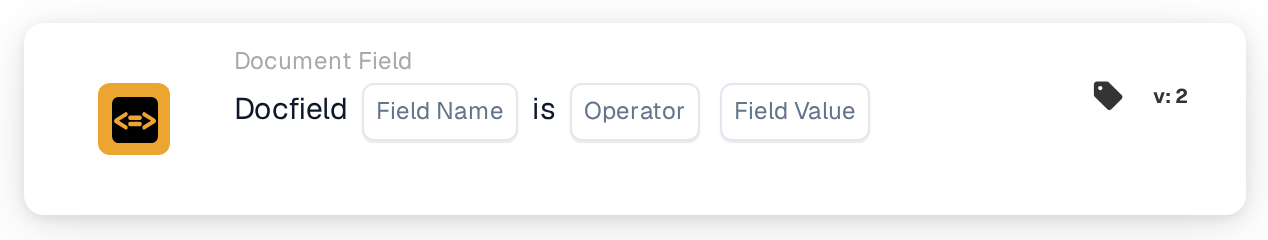
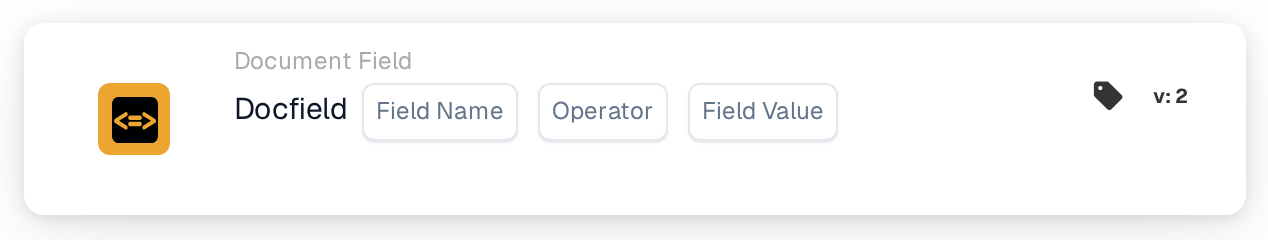
[Documentation_Workflow_Cards] [DRFS-881] document new docfield operators is one of and regex

diff --git a/public_docs/administration-and-setup/workflow/cards-overview/and/document-field/docfield-is.md b/public_docs/administration-and-setup/workflow/cards-overview/and/document-field/docfield-is.md
@@ -2,7 +2,7 @@
 
 <figure><img src="../../../../../.gitbook/assets/workflow_card_condition_docfield_operator_value_v1.png" alt="Workflow card Document Field: Docfield Field Name is Operator Field Value, version 1" width="634"><figcaption><p>Version 1</p></figcaption></figure>
 
-<figure><img src="../../../../../.gitbook/assets/workflow_card_condition_docfield_operator_value_v2.png" alt="Workflow card Document Field: Docfield Field Name is Operator Field Value, version 2" width="634"><figcaption><p>Version 2</p></figcaption></figure>
+<figure><img src="../../../../../.gitbook/assets/workflow_card_condition_docfield_operator_value_v2.png" alt="Workflow card Document Field: Docfield Field Name Operator Field Value, version 2" width="634"><figcaption><p>Version 2</p></figcaption></figure>
 
 {% embed url="https://docbits-videos.fra1.cdn.digitaloceanspaces.com/settings-assistant/card-doc-field-value/v1/en.mp4" %}
 
@@ -28,39 +28,94 @@ For example, a second approval for large invoices: Total amount greater than ten
 
 ## **Purpose:**
 
-This workflow card is designed to automate actions by comparing a specified document field's value with a reference value or condition. It ensures dynamic and accurate decision-making in workflows based on document data validation.
+This card compares one field of the document with a value you enter on the card. Use it to send documents down different paths depending on a field value, for example a second approval for large invoices, or a special route for a few suppliers.
+
+The card reads: **Docfield** [Field Name] [Operator] [Field Value].
 
 ## **Components of the Card:**
 
 1. **Field Name**
-   * **Description:** Specifies the name of the document field to be evaluated.
-   * **Detail:** This must match the exact identifier of the field within the document.
-2. **Operators**
-   * **Description:** Defines the type of comparison to be performed between the field value and the reference value.
-   * **Options:**
-     * **Equals (=):** Checks if the field value matches the reference value.
-     * **Not Equals (≠):** Ensures the field value differs from the reference value.
-     * **Greater Than (>):** Confirms the field value is greater than the reference value.
-     * **Greater or Equals (≥):** Validates the field value is equal to or greater than the reference value.
-     * **Lesser Than (<):** Checks if the field value is less than the reference value.
-     * **Less or Equals (≤):** Ensures the field value is less than or equal to the reference value.
+   * The document field to check, chosen from the fields of the document type.
+2. **Operator**
+   * How the field value is compared with the **Field Value**. Which operators make sense depends on the type of the field, see **Operators** below.
+3. **Field Value**
+   * The value to compare with. Depending on the operator this is a single value, a comma-separated list or a regular expression.
 
-## **Functionality:**
+## **Operators:**
 
-* **Condition Evaluation:** The system checks whether the document field's value, in relation to its associated column, satisfies the comparison condition specified by the operator and reference value.
-* **Action Execution:**
-  * **True Condition:**\
-    If the document field's value meets the specified condition (e.g., equals the reference value), the system triggers the associated actions. These could include updating records, progressing the workflow, or generating notifications.
-  * **False Condition:**\
-    If the document field's value does not meet the specified condition, alternative actions or no actions are executed, based on the workflow configuration.
+| Operator | Met when | Field types |
+| --- | --- | --- |
+| **Equals** | the field value equals the Field Value | text, number, amount, date |
+| **Not Equals** | the field value differs from the Field Value | text, number, amount, date |
+| **Greater Than** | the field value is greater than the Field Value | number, amount, date |
+| **Greater or Equals** | the field value is greater than or equal to the Field Value | number, amount, date |
+| **Less Than** | the field value is less than the Field Value | number, amount, date |
+| **Less or Equals** | the field value is less than or equal to the Field Value | number, amount, date |
+| **Is One Of** | the field value equals one item of a comma-separated list | text |
+| **Is Not One Of** | the field value equals none of the items of the list | text |
+| **Matches Regex** | the regular expression is found in the field value | text, number, amount, date |
+| **Does Not Match Regex** | the regular expression is not found in the field value | text, number, amount, date |
+
+Boolean fields (checkboxes) are not supported by this card. Use **Checkbox is checked** for them.
+
+### Equals and Not Equals on text fields
+
+Text is compared without regard to capital letters, and a space counts the same as an underscore: `Acme Freight` equals `acme_freight`. Spaces at the start and end are ignored.
+
+### Is One Of and Is Not One Of
+
+Use these operators to check a text field against several values at once, for example a list of supplier IDs.
+
+* Enter the values as a comma-separated list: `40321,40322,40388`.
+* The field value has to equal one item exactly. A partial value is no match: `4032` is not one of `40321,40322,40388`, and neither is a longer value such as `403210`.
+* Capital letters do not matter, and a space counts the same as an underscore. Spaces around the items are ignored, and empty items such as the one in `a,,b` are skipped.
+* To use a comma inside a value, write it as `\,`. `Acme Freight\, LLC,Riverside Supply` is a list of two items: `Acme Freight, LLC` and `Riverside Supply`.
+* An empty field value is in no list. **Is One Of** is then not met, and **Is Not One Of** is met.
+* These operators work on text fields only. On a number, amount or date field, or with a list that has no items at all (for example only commas), the card ends with an error.
+
+### Matches Regex and Does Not Match Regex
+
+Use these operators when a pattern decides, for example "starts with" or "consists of digits only".
+
+* The **Field Value** is a regular expression in Python syntax. It is searched anywhere in the field value: `Freight` matches `Acme Freight, LLC`.
+* Use `^` and `$` to check the whole value: `^33` means "starts with 33", and `^(40321|40322|40388)$` means "exactly one of these values".
+* The pattern is case-sensitive. Start it with `(?i)` to ignore capital letters: `(?i)freight` also matches `Acme Freight, LLC`.
+* `^` and `$` refer to the whole field value. Start the pattern with `(?m)` to apply them to each line of a value with several lines.
+* The pattern is used exactly as you type it. It is not trimmed and capital letters are kept, so `\D` (any character that is not a digit) keeps its meaning, and a pattern that consists of one space searches for a space.
+* Characters with a special meaning in regular expressions have to be escaped to be matched literally: `\(copy\)` matches the text `(copy)`, while `(copy)` is a group that finds the word `copy`.
+* Numbers, amounts and dates are matched as the text they are stored as: an amount of 997.60 matches `^997\.60$`.
+* An empty field value is matched as empty text, so `^$` matches it.
+* An invalid pattern, for example `(20` with a missing bracket, ends the card with an error. The same happens when a pattern takes too long on a value (more than 0.05 seconds), which only occurs with badly built patterns such as `(a|aa)+$`. In both cases the card is neither met nor not met, so **Does Not Match Regex** never passes because of a broken pattern.
+
+## **How the card works:**
+
+* **Field not on the document:** if the document has no field with the chosen name, the card stops and reports that the field was not found, whatever the operator.
+* **Condition met:** the Workflow continues with the next card (in the Advanced Workflow, through the success exit).
+* **Condition not met:** the Workflow stops at this card (in the Advanced Workflow, it takes the exit for an unmet condition).
+* **Error:** an operator that does not fit the field type, a missing Field Value, an empty list or an unusable pattern end the card with an error. The card log shows the reason.
 
 ## **Setup and Configuration:**
 
-* The user selects the field name of the relevant document and chooses the operator from the drop-down menu. The user then specifies the reference field value to complete the configuration.
+Choose the field in **Field Name**, the operator in **Operator** and enter the value in **Field Value**. For numbers and amounts enter the value without a currency symbol and with a decimal point, for example `1000.50`.
+
+To try a configuration without waiting for a document, open the card menu in the Workflow Builder, choose **Test Card**, pick a document and select **Test on Document**. The card log shows the field value, the operator and the result.
+
+## **Examples:**
+
+| Goal | Field Name | Operator | Field Value | Field value on the document | Result |
+| --- | --- | --- | --- | --- | --- |
+| Second approval for large invoices | Total amount | Greater Than | `10000` | 12500.00 | met |
+| Route a few suppliers | Supplier ID | Is One Of | `40321,40322,40388` | 40322 | met |
+| | | | | 4032 | not met |
+| Skip a supplier with a comma in its name | Supplier name | Is Not One Of | `Acme Freight\, LLC` | Acme Freight, LLC | not met |
+| Order numbers starting with 33 | Order number | Matches Regex | `^33` | 33012 | met |
+| | | | | 13301 | not met |
+| Reference with letters | Reference | Matches Regex | `\D` | AB-1204 | met |
+| Copies of invoices | Invoice number | Does Not Match Regex | `\(copy\)` | INV-1204 (copy) | not met |
 
 ## **Conclusion:**
 
-The "DocField Comparison Validation" workflow card is a robust tool for dynamic document processing. By automating actions based on field comparisons, this card streamlines workflows, enhances accuracy, and supports data-driven decision-making.
+The card checks a single document field against a value, a list or a pattern. Use **Is One Of** for fixed lists of values and **Matches Regex** for patterns such as prefixes or formats.
 
 <!-- workflow-card-practical-example-20261021 -->
 

diff --git a/public_docs/administration-and-setup/workflow/workflow-learning-path/card-reference-standard.md b/public_docs/administration-and-setup/workflow/workflow-learning-path/card-reference-standard.md
@@ -28,7 +28,7 @@ Choose a card by its operation and data scope. **Field is** checks presence or e
 | Input       | Example configuration                                              |
 | ----------- | ------------------------------------------------------------------ |
 | Field Name  | `total_amount`, the technical key rather than its translated label |
-| Operator    | `gt` / Greater Than                                                |
+| Operator    | `gt` / Greater Than. Text fields also offer **Is One Of** / **Is Not One Of** (comma-separated list) and every type except checkboxes **Matches Regex** / **Does Not Match Regex** (regular expression) |
 | Field Value | `1000`, without a currency symbol                                  |
 
 The card reads the current document's field and compares it with the configured value. It does not change status, create a task or export. In Advanced, true continues through Success, normally false through Failed Condition, and an evaluation error through Error. In Standard, a condition that is not met stops the linear sequence.

diff --git a/public_docs/administration-and-setup/workflow/card-reference-standard.md b/public_docs/administration-and-setup/workflow/card-reference-standard.md
@@ -26,7 +26,7 @@ Choose a card by its operation and data scope. **Field is** checks presence or e
 | Input | Example configuration |
 | --- | --- |
 | Field Name | `total_amount`, the technical key rather than its translated label |
-| Operator | `gt` / Greater Than |
+| Operator | `gt` / Greater Than. Text fields also offer **Is One Of** / **Is Not One Of** (comma-separated list) and every type except checkboxes **Matches Regex** / **Does Not Match Regex** (regular expression) |
 | Field Value | `1000`, without a currency symbol |
 
 The card reads the current document's field and compares it with the configured value. It does not change status, create a task or export. In Advanced, true continues through Success, normally false through Failed Condition, and an evaluation error through Error. In Standard, a condition that is not met stops the linear sequence.

diff --git a/public_docs/administration-and-setup/workflow/masterclass/field-conditions.md b/public_docs/administration-and-setup/workflow/masterclass/field-conditions.md
@@ -31,7 +31,7 @@ Identity: `1c35a5a0-1592-446c-9a61-6abb14d27450`
 
 | Parameter | Type / choices | Example |
 | --- | --- | --- |
-| `operator` | `eq / neq / gt / ge / lt / le` | `"gt"` |
+| `operator` | `eq / neq / gt / ge / lt / le / cont / not_cont / matches_regex / not_matches_regex` | `"gt"` |
 | `field_name` | `field_name:str` | `"total_amount"` |
 | `field_value` | `field_value:str` | `"1000"` |
 
